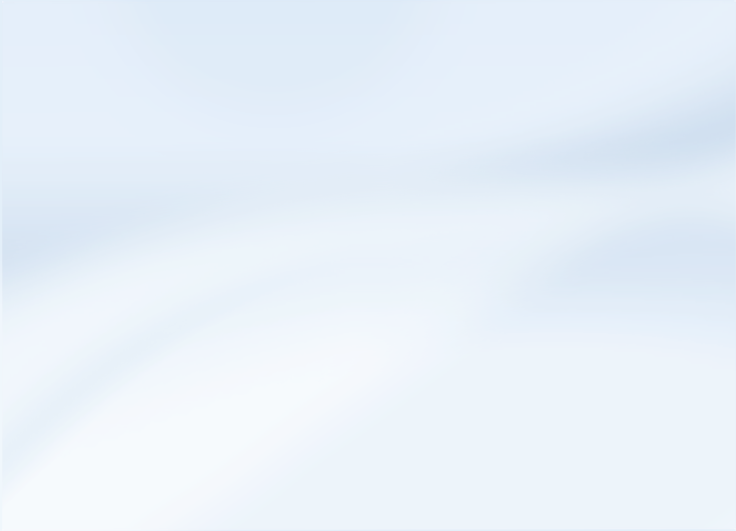
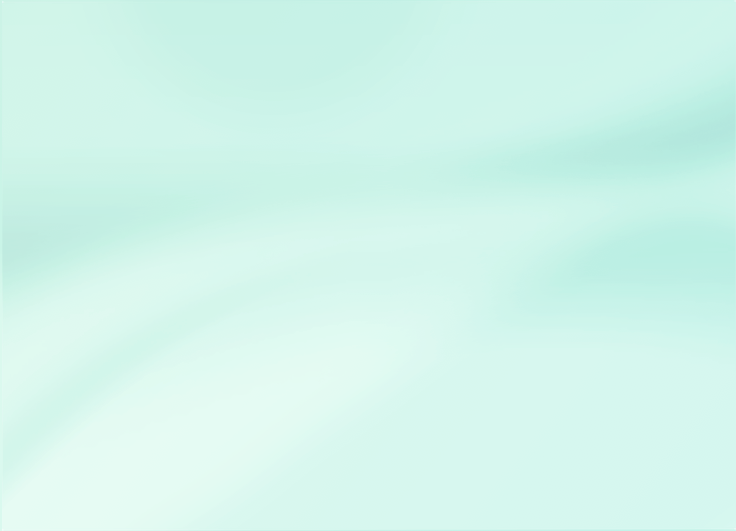
Update layout

diff --git a/assets/css/style.css b/assets/css/style.css
@@ -6,7 +6,7 @@ body {
   background-size: cover;
   background-repeat: no-repeat;
   background-position: center center;
-  background-image: url("../images/Fruitbook_background.jpg");
+  background-image: url("../images/Fruitbook_background2.jpg");
 }
 
 .hero {
@@ -16,14 +16,19 @@ body {
   background-size: cover;
   background-repeat: no-repeat;
   /* background-position: center center; */
-  background-image: url("../images/fruit_background_border_top.jpg");
+  background-image: url("../images/fruit_background_border_top3.jpg");
   
 }
 
 /* .hero-body img {
-  width:20%;
-  height:20%;
+  width:100%;
+  height:100%;
 } */
+
+.hero.is-primary .title {
+  color: #0ba360;
+  text-align: center;
+}
 
 .hero .title {
   font-family: 'Staatliches', sans-serif;
@@ -32,30 +37,37 @@ body {
   text-shadow: -1px 1px 1px rgb(93, 90, 90);
 }
 
+
 .footer {
   /* background-image: linear-gradient(-225deg, #7085B6 0%, #87A7D9 50%, #DEF3F8 100%); */
-  color: white;
-  font-size: large;
+  color: #0ba360;
+  /* padding-bottom: 30px; */
+  font-weight: bold;
+  font-size: 20px;
   box-shadow: -1px 2px 10px 0px rgb(134, 132, 132);
   box-shadow: -1px 2px 10px 0px rgb(134, 132, 132);
   background-attachment: fixed;  
   background-size: cover;
   background-repeat: no-repeat;
   background-position: center center;
-  background-image: url("../images/fruit_background_border_top\ -flipped.jpg");
+  background-image: url("../images/fruit_background_border_top4.jpg");
+}
+
+.footer p {
+  padding-top: 45px;
 }
 
 #search {
-  background-image: linear-gradient(-225deg, #7085B6 0%, #87A7D9 50%, #DEF3F8 100%);
+  background-image: linear-gradient(to top, #0ba360 0%, #3cba92 100%);;
   color: white;
-  border-color: #748bbc;
+  border-color: #0ba360;
 }
 
 #search:hover {
   background-image: none;
-  background-color: #b6d0ea;
+  background-color: #0ba360;
   /* border-color: #83a1d3; */
-  border-color: #83a1d3;
+  border-color: #0ba360;
   /* color: #83a1d3; */
   box-shadow: -1px 2px 5px 0px rgb(134, 132, 132);
 }
@@ -63,13 +75,13 @@ body {
 
 .button.is-primary.is-outlined {
   /* background-image: linear-gradient(-225deg, #7085B6 0%, #87A7D9 50%, #DEF3F8 100%); */
-  color: #748bbc;
-  border-color: #748bbc;
+  color: #0ba360;
+  border-color: #0ba360;
 }
 
 .button.is-primary.is-outlined:hover {
-  background-image: linear-gradient(-225deg, #7085B6 0%, #87A7D9 50%, #DEF3F8 100%);
-  border-color: #748bbc;
+  background-image: linear-gradient(to top, #0ba360 0%, #3cba92 100%);;
+  border-color: #0ba360;
 }
 
 
@@ -84,15 +96,15 @@ body {
 
 
 #deleteButton {
-  background-image: linear-gradient(-225deg, #7085B6 0%, #87A7D9 50%, #DEF3F8 100%);
+  background-image: linear-gradient(to top, #0ba360 0%, #3cba92 100%);;
   color: white;
-  border-color: #748bbc;
+  border-color: #0ba360;
 }
 
 #deleteButton:hover {
   background-image: none;
-  background-color: #b6d0ea;
-  border-color: #83a1d3;
+  background-color: #0ba360;
+  border-color: #0ba360;
   /* color: #83a1d3; */
   box-shadow: -1px 2px 5px 0px rgb(134, 132, 132);
 }

diff --git a/index.html b/index.html
@@ -16,12 +16,12 @@
     <header class="hero is-primary is-small">
       <div class="hero-body">
         <div class="columns is-gapless">
-          <div class="column is-one-quarter">
+          <div class="column is-one-third">
             <!-- <h3>Fruitbook</h3> -->
             <img src="./assets/images/fruitbook-text-logo.png" alt="fruitbook text logo">
           </div>
-          <div class="column is-half"></div>
-            <article  class="column is-one-quarter">
+          <div class="column is-one-third"></div>
+            <article  class="column is-one-third">
               <h2 class="title"> Search for a Fruit</h2>
                 <div class="field">
                   <form id="fruit-search" class="label is-medium">
@@ -30,7 +30,7 @@
                 </div>
               <button id="search" class="button is-medium is-fullwidth is-primary is-outlined"> Search </button>
             </article>
-      </div>
+        </div>
       </div>
     </header>
 
@@ -54,17 +54,40 @@
           </div>
       </section> -->
 
-    <div>
-      <section class="section column is-three-quarters">
+    <!-- <div class="section column is-two-thirds">
+      <section>
+            <div class="box card" id="current-fruit-picture">
+              <p id="diplayFruitPicture" class="card-content"></p>
+            </div>
+      </section> -->
+
+      <div class="section column is-two-thirds">
+        <section class="box card">
+              <div class="card-image" id="current-fruit-picture">
+                <p id="diplayFruitPicture" class="image is-4by3"></p>
+              </div>
+        </section>
+
+
+
+
+
+
+      <!-- <article class="section column is-two-thirds">
         <div class="box card">
           <div>
-            <div id="current-fruit-picture"></div>
-              <p id="diplayFruitPicture" class="card-content"></p>
+            <div id="current-fruit-container"></div>
+            <h2 class="title"><span id="displayed-fruit" style="text-transform: capitalize"></span></h2>
+            <h3>
+              <p id="currentFruit" class="card-header-title"></p>
+            </h3>
+              <p id="displayFruit" class="card-content"></p>
           </div>
         </div>
-      </section>
+      </article> -->
 
-      <article class="section column is-three-quarters">
+
+      <article>
         <div class="box card">
           <div>
             <div id="current-fruit-container"></div>
@@ -77,9 +100,11 @@
         </div>
       </article>
 
+
+
     </div>
 
-      <section class="section column is-one-quarter">
+      <section class="section column is-one-third">
         <div class="box">
           <div>
             <h2 class="title">Recent Searches:</h2>
@@ -88,7 +113,7 @@
             <button id="deleteButton" class="button is-medium is-fullwidth is-primary">Remove</button>
           </div>
         </div>
-    </section>
+      </section>
   </div> 
 
       
